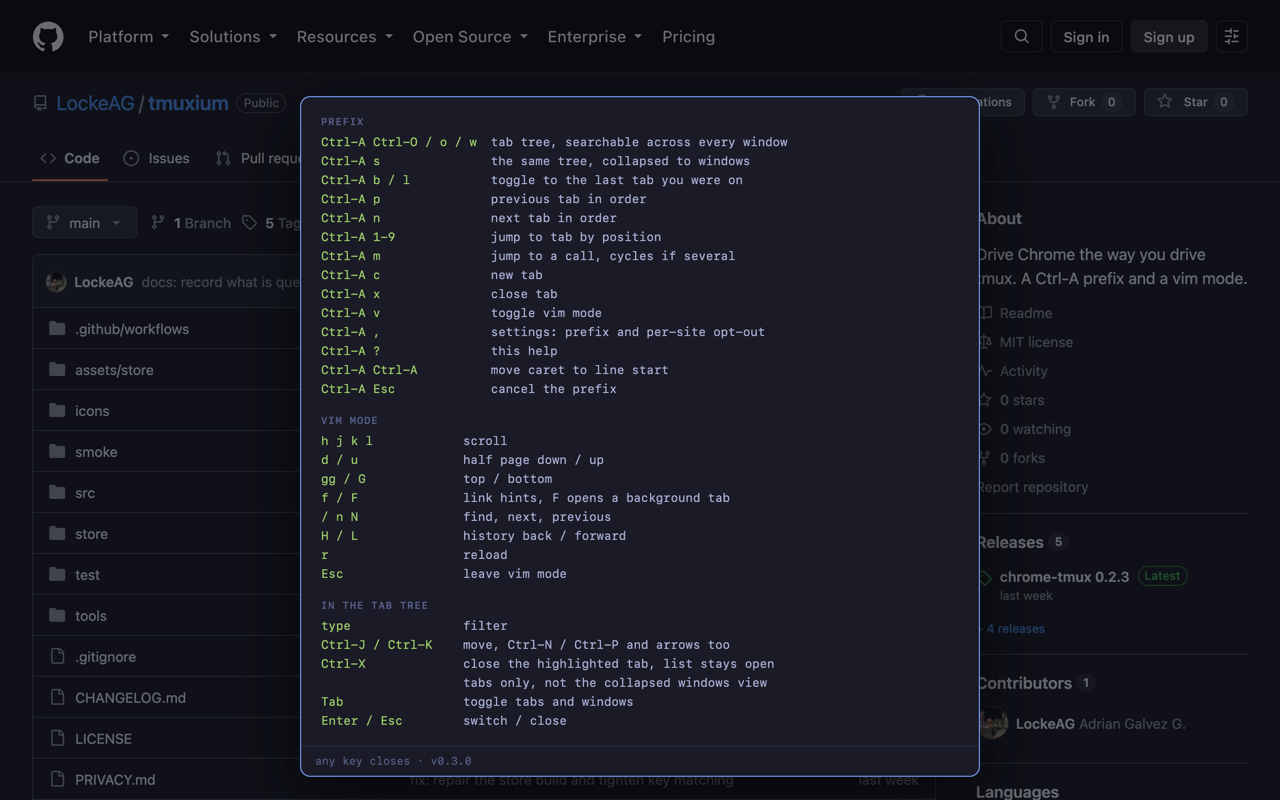
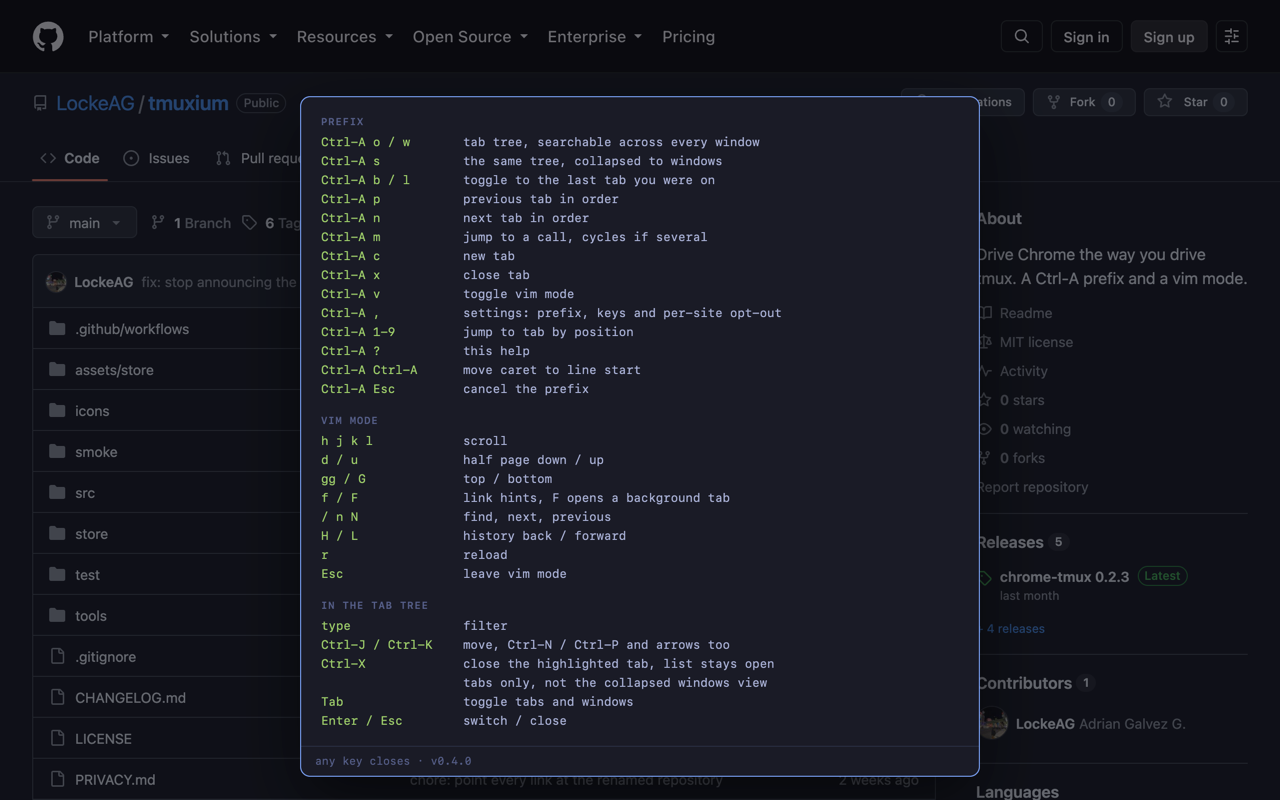
chore: release 0.4.0 with rebindable keys
Version, changelog, store copy and screenshots for the next upload. The
listing gains the one sentence that tells a user the prefix keys are
theirs to change, and the settings screenshot now shows the Keys section.

Built while 0.3.0 is in review. Whatever that review decides, the next
package to go up must carry a higher version, so this is it either way.

Changed region(s): [[0.2812, 0.1562, 0.625, 0.5], [0.125, 0.3438, 0.1875, 0.375]]

diff --git a/CHANGELOG.md b/CHANGELOG.md
@@ -3,6 +3,28 @@
 Notable changes, newest first. Follows [Keep a Changelog](https://keepachangelog.com/en/1.1.0/)
 loosely and [semantic versioning](https://semver.org/).
 
+## 0.4.0 - 2026-09-02
+
+Built while 0.3.0 sat in store review. Goes up as the next upload whatever the
+outcome of that review: an approval makes it the first update, a metadata
+rejection makes it the fixed resubmission, since every upload must carry a
+higher version than the last.
+
+### Added
+
+- **Rebindable prefix actions.** Every action after the prefix now has an id,
+  not just a key, so `Ctrl-A` then a letter can be rebound in Settings, under
+  Keys: a button per action showing its current key, click then press the one
+  you want. `?` and `1`-`9` stay fixed, and vim mode's keymap still is not
+  configurable. The help overlay, the tab tree footer and the toolbar popup
+  all draw their key names from what is actually bound, so none of them can
+  describe a key you no longer have.
+
+### Fixed
+
+- The content script no longer writes a line to the console of every page it
+  loads in.
+
 ## 0.3.0 - 2026-08-17
 
 ### Changed
@@ -24,14 +46,9 @@ loosely and [semantic versioning](https://semver.org/).
 
 ## Planned
 
-For 1.1, once the store listing is approved. All three change the submitted
-package, so none goes in while a review is pending.
+For the release after 0.4.0, once the store listing is approved. Both change
+the submitted package, so neither goes in while a review is pending.
 
-- **Rebindable prefix actions.** Every action after the prefix now has an id,
-  not just a key, so `Ctrl-A` then a letter can be rebound in Settings, under
-  Keys: a button per action showing its current key, click then press the one
-  you want. `?` and `1`-`9` stay fixed, and vim mode's keymap still is not
-  configurable.
 - **Search from the tab tree.** `Ctrl-Enter` searches the filter text with the
   configured engine, and the empty state becomes an offer to search rather than
   a dead `No matches`. Not plain `Enter`, which means "switch to the selected

diff --git a/store/listing.md b/store/listing.md
@@ -61,6 +61,8 @@ Prefix, press Ctrl-A then:
   Ctrl-A         jump the caret to the start of the line
   Esc            cancel, having pressed the prefix by mistake
 
+Every key above except ? and 1-9 can be rebound in settings.
+
 Vim mode, bare keys:
   h j k l        scroll
   d u            half a page
@@ -106,11 +108,6 @@ marks yet.
 
 Tmuxium is open source, MIT licensed: https://github.com/LockeAG/tmuxium
 ```
-
-**For 1.1, not now.** Once rebindable keys ships and this listing goes back
-for review, add one sentence after "THE KEYS" in the description above:
-"Every key after the prefix can be rebound in settings." The block above is
-the copy already under review; leave it alone until then.
 
 ---
 
@@ -205,7 +202,7 @@ https://github.com/LockeAG/tmuxium/blob/main/PRIVACY.md
 - [ ] Load that zip unpacked once and press the keys. It is a different build
       from the one you have been using: no New Tab Page, and `tabs`, `storage`
       and `scripting` where the repo build also has `topSites` and `favicon`
-- [ ] Check `manifest.json` in the zip says `Tmuxium`, version `0.3.0`, and
+- [ ] Check `manifest.json` in the zip says `Tmuxium`, version `0.4.0`, and
       lists exactly `tabs`, `storage`, `scripting`. Every upload must carry a
       higher version than the one before it, so never resubmit on the same
       number, even after a rejection
